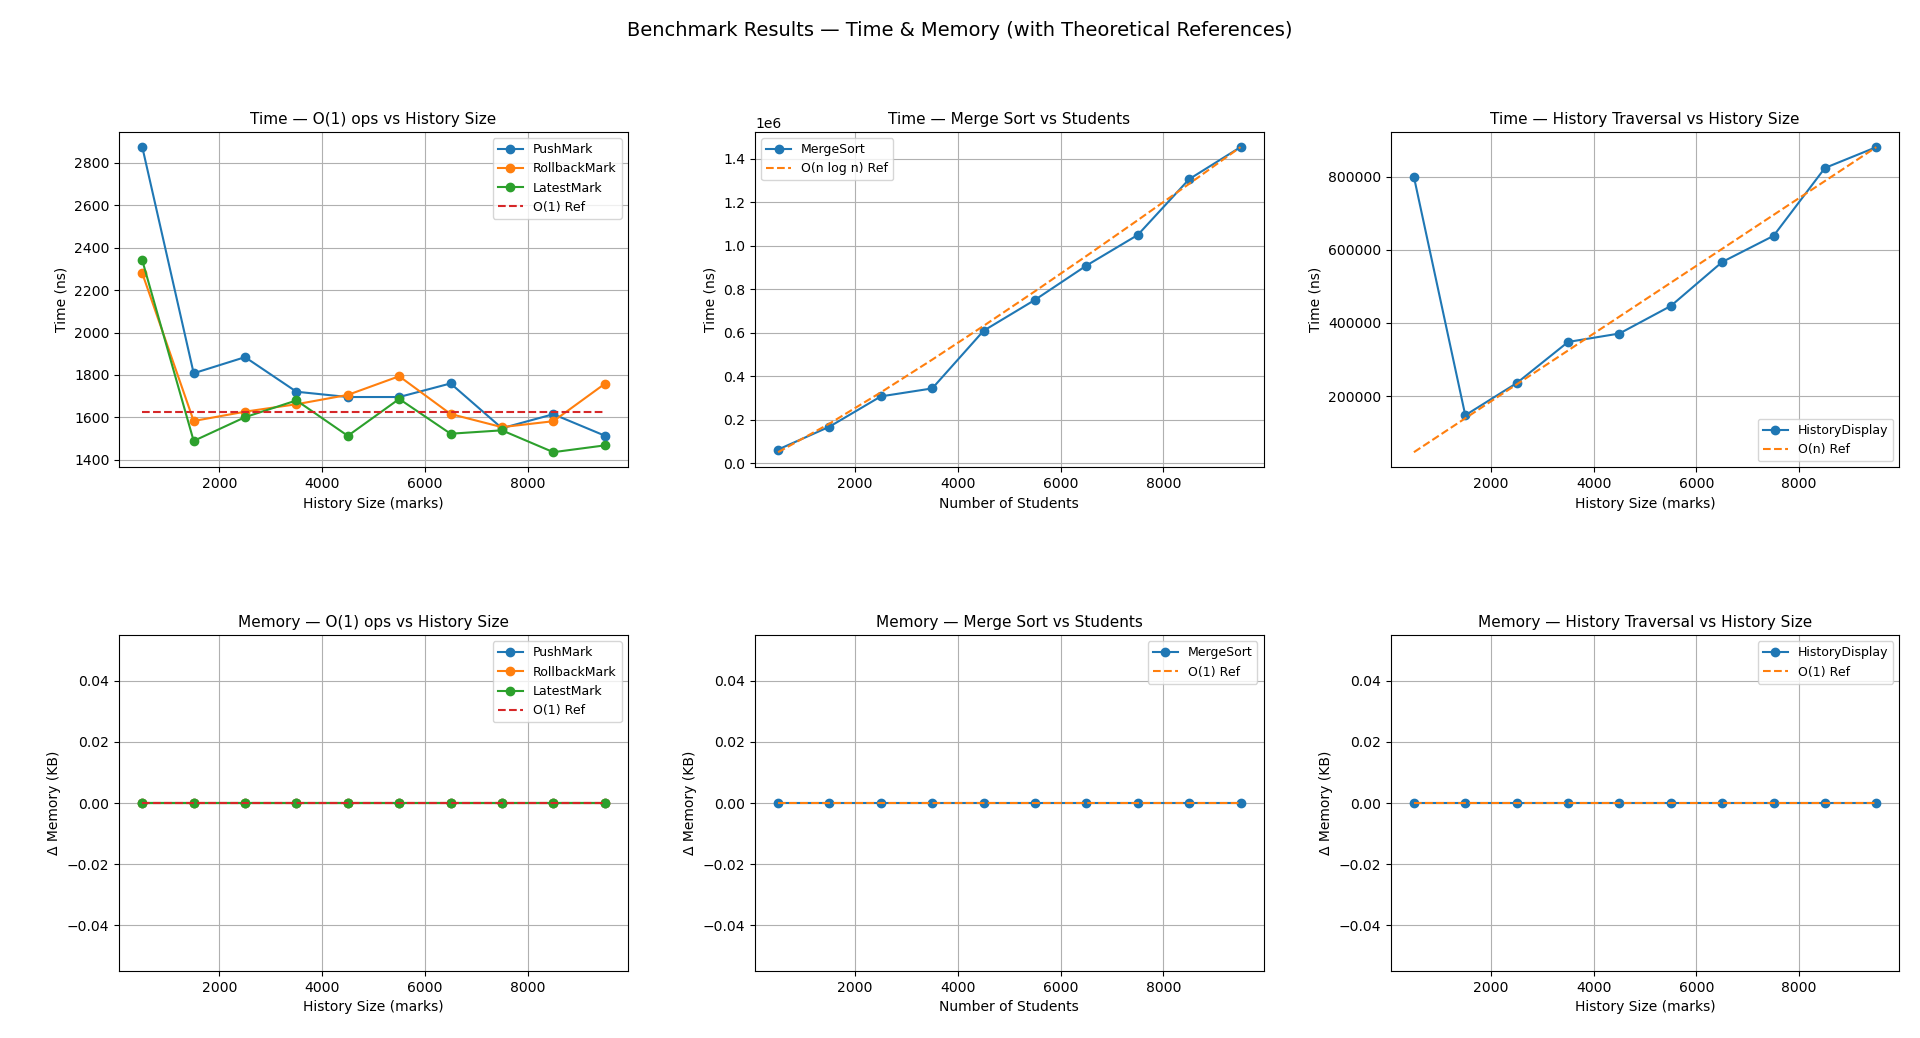
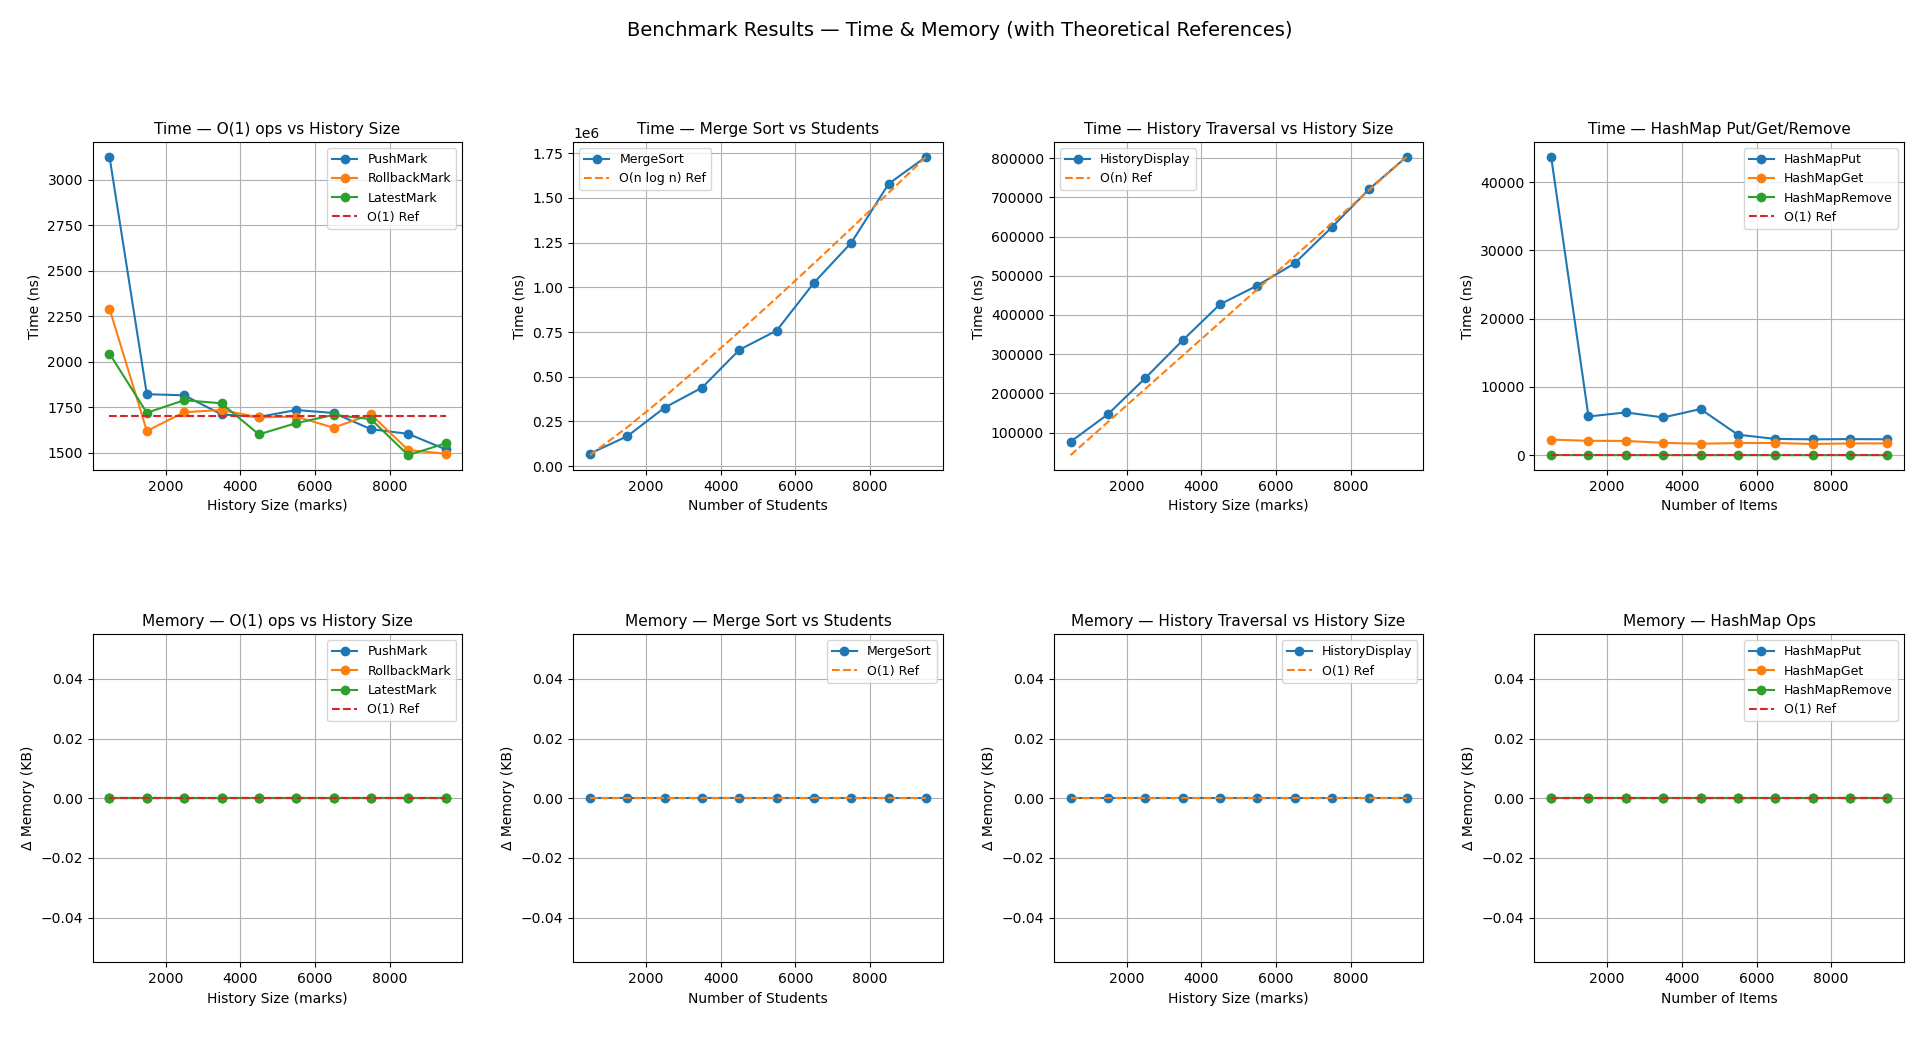
add hashmap benchmarks

diff --git a/app/src/main/java/gms/utils/Benchmark.java b/app/src/main/java/gms/utils/Benchmark.java
@@ -29,6 +29,12 @@ public class Benchmark {
       benchmarkRollbackMark(out);
       System.out.println("Benchmarking LatestMark...");
       benchmarkLatest(out);
+      System.out.println("Benchmarking HashMap Put...");
+      benchmarkHashMapPut(out);
+      System.out.println("Benchmarking HashMap Get...");
+      benchmarkHashMapGet(out);
+      System.out.println("Benchmarking HashMap Remove...");
+      benchmarkHashMapRemove(out);
       System.out.println("Benchmarking HistoryDisplay...");
       benchmarkHistoryDisplay(out);
 
@@ -209,6 +215,108 @@ public class Benchmark {
     long memKB = totalMem / copies.size();
 
     out.write("MergeSort," + n + "," + avg + "," + memKB + "\n");
+  }
+
+  // ========== HashMap PUT (O(1)) ==========
+  private static void benchmarkHashMapPut(FileWriter out) throws IOException {
+    for (int n = START; n <= END; n += STEP) {
+
+      // Create several independent HashMaps (avoids accumulated size)
+      DoublyLinkedList<HashMap<String, Integer>> copies = new DoublyLinkedList<>();
+      for (int r = 0; r < REPEAT / 10; r++) {
+        // Pre-allocate larger bucket array to minimize rehash
+        copies.add(new HashMap<String, Integer>(n * 2));
+      }
+
+      long total = 0;
+      for (HashMap<String, Integer> map : copies) {
+        System.gc();
+        long t0 = System.nanoTime();
+        map.put("K" + n, n); // insert one element
+        long t1 = System.nanoTime();
+        total += (t1 - t0);
+      }
+
+      // Memory Measurement (per map)
+      long totalMem = 0;
+      for (HashMap<String, Integer> map : copies) {
+        long before = usedMemory(true);
+        map.put("K_mem" + n, n);
+        long after = usedMemory(false);
+        totalMem += (after - before);
+      }
+
+      long avgTime = total / (REPEAT / 10);
+      long avgMem = totalMem / copies.size();
+      System.gc();
+
+      out.write("HashMapPut," + n + "," + avgTime + "," + avgMem + "\n");
+    }
+  }
+
+  // ========== 6. HashMap GET (O(1)) ==========
+  private static void benchmarkHashMapGet(FileWriter out) throws IOException {
+    for (int n = START; n <= END; n += STEP) {
+      HashMap<String, Integer> map = new HashMap<>();
+      for (int i = 0; i < n; i++)
+        map.put("K" + i, i);
+
+      long total = 0;
+      long memBefore = usedMemory(true);
+
+      for (int r = 0; r < REPEAT; r++) {
+        long t0 = System.nanoTime();
+        map.get("K" + (n / 2));
+        long t1 = System.nanoTime();
+        total += (t1 - t0);
+      }
+
+      long memAfter = usedMemory(false);
+      long avg = total / REPEAT;
+      long memKB = memAfter - memBefore;
+
+      out.write("HashMapGet," + n + "," + avg + "," + memKB + "\n");
+    }
+  }
+
+  // ========== 7. HashMap REMOVE (O(1)) ==========
+  private static void benchmarkHashMapRemove(FileWriter out) throws IOException {
+    for (int n = START; n <= END; n += STEP) {
+
+      DoublyLinkedList<HashMap<String, Integer>> copies = new DoublyLinkedList<>();
+      for (int r = 0; r < REPEAT / 10; r++) {
+        copies.add(new HashMap<String, Integer>(n * 2));
+      }
+
+      long total = 0;
+      for (HashMap<String, Integer> map : copies) {
+        for (int i = 0; i < n; i++)
+          map.put("K" + i, i);
+
+        System.gc();
+        long t0 = System.nanoTime();
+        map.remove("K" + (n / 2));
+        long t1 = System.nanoTime();
+        total += (t1 - t0);
+      }
+
+      long totalMem = 0;
+      for (HashMap<String, Integer> map : copies) {
+        for (int i = 0; i < n; i++)
+          map.put("K" + i, i);
+
+        long before = usedMemory(true);
+        map.remove("K" + (n / 2));
+        long after = usedMemory(false);
+        totalMem += (after - before);
+      }
+
+      long avg = total / REPEAT / 10;
+      long memKB = totalMem / copies.size();
+      System.gc();
+
+      out.write("HashMapRemove," + n + "," + avg + "," + memKB + "\n");
+    }
   }
 
   private static long usedMemory(boolean runGC) {

diff --git a/app/scripts/plot_benchmarks.py b/app/scripts/plot_benchmarks.py
@@ -49,7 +49,7 @@ def plot_flat(ax, x, y, label):
 
 
 # Prepare figure (2 rows × 3 cols): top = time; bottom = memory
-fig, axes = plt.subplots(2, 3, figsize=(14, 9))
+fig, axes = plt.subplots(2, 4, figsize=(18, 8))  # EDITED
 fig.suptitle(
     "Benchmark Results — Time & Memory (with Theoretical References)",
     fontsize=14,
@@ -116,6 +116,23 @@ ax.set_ylabel("Δ Memory (KB)")
 ax.grid(True)
 ax.legend(fontsize=9)
 
+# ✅ ---------------- TIME: HashMap Ops (New Subplot) ----------------
+
+HASHMAP_OPS = ["HashMapPut", "HashMapGet", "HashMapRemove"]
+ax = axes[0][3]
+for op in HASHMAP_OPS:
+    if op in data:
+        x = [row[0] for row in data[op]]  # Number of items in HashMap
+        y = [row[1] for row in data[op]]  # Time in ns
+        ax.plot(x, y, marker="o", label=op)
+if "HashMapPut" in data:
+    plot_flat(ax, x, y, "O(1) Ref")
+ax.set_title("Time — HashMap Put/Get/Remove", fontsize=11)
+ax.set_xlabel("Number of Items")
+ax.set_ylabel("Time (ns)")
+ax.grid(True)
+ax.legend(fontsize=9)
+
 # ---------------- MEMORY: MergeSort vs STUDENTS -------------
 ax = axes[1][1]
 if "MergeSort" in data:
@@ -143,6 +160,21 @@ ax.set_ylabel("Δ Memory (KB)")
 ax.grid(True)
 ax.legend(fontsize=9)
 
+# ✅ ---------------- MEMORY: HashMap Ops (New Subplot) ----------------
+ax = axes[1][3]  # EDITED
+for op in HASHMAP_OPS:
+    if op in data:
+        x = [row[0] for row in data[op]]
+        m = [row[2] for row in data[op]]
+        ax.plot(x, m, marker="o", label=op)
+if "HashMapPut" in data:
+    plot_flat(ax, x, m, "O(1) Ref")
+ax.set_title("Memory — HashMap Ops", fontsize=11)
+ax.set_xlabel("Number of Items")
+ax.set_ylabel("Δ Memory (KB)")
+ax.grid(True)
+ax.legend(fontsize=9)
+
 plt.tight_layout(rect=[0, 0, 1, 0.95])
-plt.subplots_adjust(hspace=0.5, wspace=0.25)
+plt.subplots_adjust(hspace=0.5, wspace=0.3)
 plt.show()

diff --git a/app/src/main/java/gms/dsa/HashMap.java b/app/src/main/java/gms/dsa/HashMap.java
@@ -47,6 +47,11 @@ public class HashMap<K, V> implements Map<K, V> {
     buckets = (Node<K, V>[]) new Node[16];
   }
 
+  @SuppressWarnings("unchecked")
+  public HashMap(int n) {
+    buckets = (Node<K, V>[]) new Node[n];
+  }
+
   private int idxFor(Object key, int mod) {
     return (key == null ? 0 : (key.hashCode() & 0x7fffffff)) % mod;
   }

diff --git a/README.md b/README.md
@@ -133,6 +133,7 @@ The menu with all the options. Some of these options are hidden based on context
 | Latest mark retrival for report card generation (`LatestMark`) | Custom Stack.peek()                         | O(1)            | O(1)  |
 | Revalutaion history display (`HistoryTraversal`)               | Stack Traversal                             | O(n)            | O(1)  |
 | Sort Students by CGPA for display                              | Custom Iterative Merge Sort for Linked List | O(n log n)      | O(1)  |
+| HashMap Get/Put/Remove used for Student/Subject management     | Custom HashMap                              | O(1)            | O(1)  |
 
 ## Future Enhancements
 
